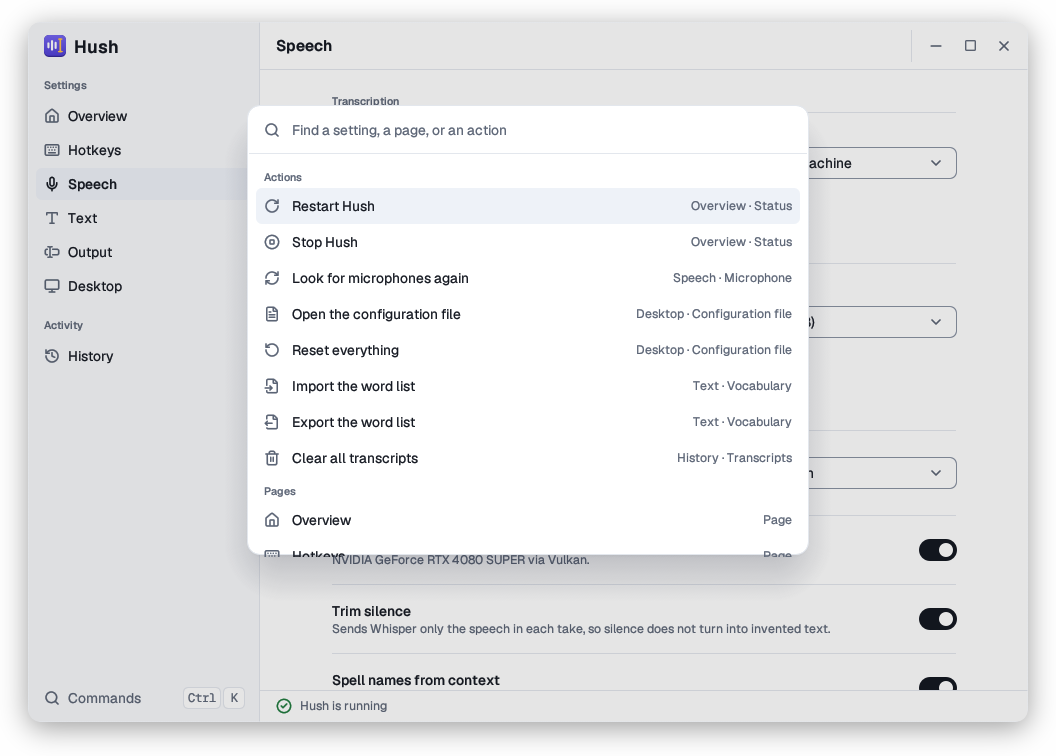
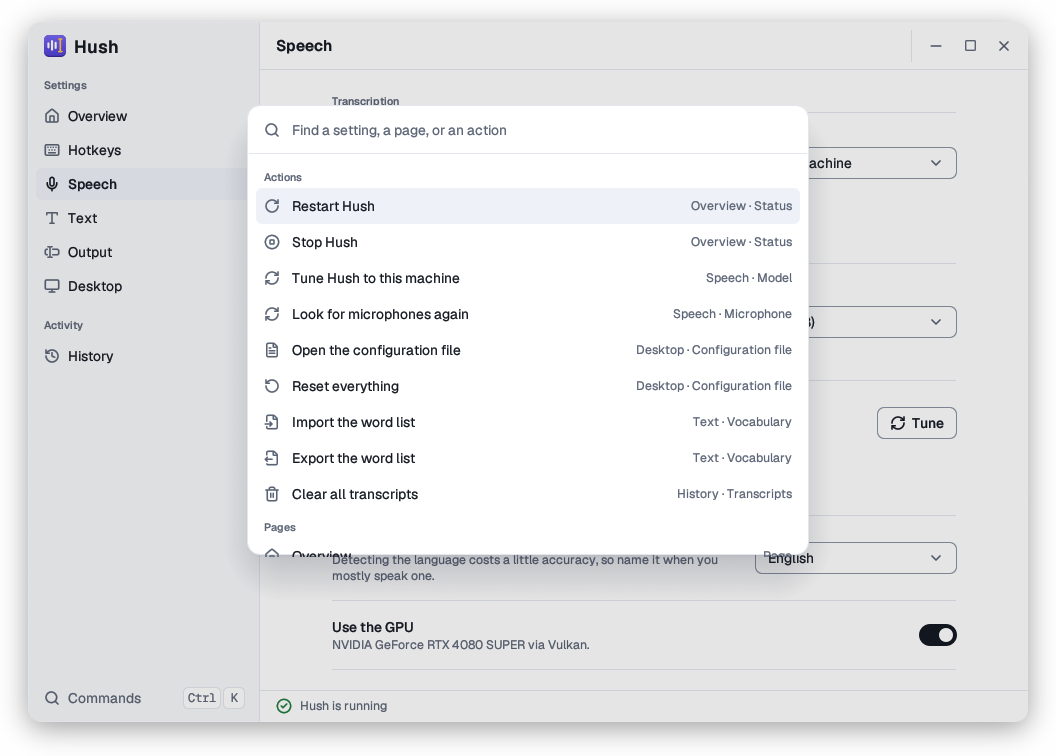
feat(gui): show the last hardware tune on the Speech page, with a button that runs it again
The Speech page gains a tune row under the model: the runs and the pick of the last `hush tune`, or
what a tune does, with a Tune button that runs `hush tune`. The command palette offers the same
action. TuneResult::current() reads a tune only when it timed the GPU and driver in use, and each
refresh of the window takes its pick as the recommended model. At start, a new GPU or driver
under an older tune notifies the user to tune again. The screenshot script keeps the state and
cache folders inside its own home, so a tune on the host stays out of the pictures.

diff --git a/src/gui/palette.rs b/src/gui/palette.rs
@@ -266,7 +266,15 @@ pub const SETTINGS: &[Setting] = &[
         "Speech model",
         Page::Speech,
         "Model",
-        "whisper tiny base small medium large parakeet size accuracy",
+        "whisper tiny base small medium large turbo parakeet size accuracy",
+    )
+    .when(model_list),
+    row(
+        "speech.tune",
+        "Hardware tune",
+        Page::Speech,
+        "Model",
+        "tune benchmark speed gpu cpu recommend time measure",
     )
     .when(model_list),
     row(
@@ -587,6 +595,7 @@ pub enum Action {
     StopHush,
     GrantAccess,
     Download,
+    Tune,
     FindMicrophones,
     KeepMicAwake,
     LetMicSleep,
@@ -601,12 +610,13 @@ pub enum Action {
 }
 
 impl Action {
-    pub const ALL: [Action; 16] = [
+    pub const ALL: [Action; 17] = [
         Action::StartHush,
         Action::RestartHush,
         Action::StopHush,
         Action::GrantAccess,
         Action::Download,
+        Action::Tune,
         Action::FindMicrophones,
         Action::KeepMicAwake,
         Action::LetMicSleep,
@@ -629,6 +639,7 @@ impl Action {
             },
             Action::GrantAccess => ("overview.access", Some(Page::Overview)),
             Action::Download => ("speech.download", Some(Page::Speech)),
+            Action::Tune => ("speech.tune", Some(Page::Speech)),
             Action::FindMicrophones => ("speech.microphone", Some(Page::Speech)),
             Action::KeepMicAwake | Action::LetMicSleep => ("speech.wake", Some(Page::Speech)),
             Action::OpenConfigFile => ("desktop.config_file", Some(Page::Desktop)),
@@ -648,7 +659,7 @@ impl Action {
         match self {
             Action::StartHush | Action::RestartHush | Action::StopHush => "Status",
             Action::GrantAccess => "Keyboard access",
-            Action::Download => "Model",
+            Action::Download | Action::Tune => "Model",
             Action::FindMicrophones | Action::KeepMicAwake | Action::LetMicSleep => "Microphone",
             Action::OpenConfigFile | Action::Reset => "Configuration file",
             Action::ImportWords | Action::ExportWords => "Vocabulary",
@@ -665,7 +676,7 @@ impl Action {
             Action::StopHush => icons::CIRCLE_STOP,
             Action::GrantAccess => icons::SHIELD_CHECK,
             Action::Download => icons::DOWNLOAD,
-            Action::FindMicrophones => icons::REFRESH_CW,
+            Action::FindMicrophones | Action::Tune => icons::REFRESH_CW,
             Action::KeepMicAwake => icons::MIC,
             Action::OpenConfigFile => icons::FILE_TEXT,
             Action::ImportWords => icons::FILE_INPUT,
@@ -686,6 +697,7 @@ impl Action {
             Action::StopHush => "daemon quit off",
             Action::GrantAccess => "permissions udev uinput input group keyboard",
             Action::Download => "model whisper fetch install voice detection vad",
+            Action::Tune => "tune benchmark speed gpu cpu recommend model time measure",
             Action::FindMicrophones => "refresh microphones input devices rescan",
             Action::KeepMicAwake => {
                 "wake sleep suspend wireplumber pipewire first word cut off slow"
@@ -716,6 +728,8 @@ impl Action {
                     _ => "Download voice detection".to_string(),
                 }
             },
+            Action::Tune if gui.machine.tune.is_some() => "Tune again",
+            Action::Tune => "Tune Hush to this machine",
             Action::FindMicrophones => "Look for microphones again",
             Action::KeepMicAwake => "Keep the microphone awake",
             Action::LetMicSleep => "Let the microphone sleep again",
@@ -738,6 +752,7 @@ impl Action {
             Action::RestartHush | Action::StopHush => gui.machine.running(),
             Action::GrantAccess => !gui.machine.permissions.ready(),
             Action::Download => speech::download_offer(gui).is_some(),
+            Action::Tune => model_list(gui),
             Action::FindMicrophones | Action::OpenConfigFile | Action::Reset => true,
             Action::KeepMicAwake => speech::wake_offer(gui) == Some(speech::WakeAction::Keep),
             Action::LetMicSleep => speech::wake_offer(gui) == Some(speech::WakeAction::Release),
@@ -786,6 +801,10 @@ impl Action {
                     speech::start_download(gui, size);
                     self.show_row(gui, ctx);
                 }
+            },
+            Action::Tune => {
+                speech::start_tune(gui);
+                self.show_row(gui, ctx);
             },
             Action::FindMicrophones => {
                 gui.microphones = meter::input_devices();

diff --git a/src/gui/pages/speech.rs b/src/gui/pages/speech.rs
@@ -48,6 +48,7 @@ pub fn show(gui: &mut Gui, ui: &mut egui::Ui) {
     backend(gui, ui);
     if !gui.config.transcription.backend.is_cloud() {
         models(gui, ui);
+        tune(gui, ui);
     }
     listening(gui, ui);
     microphone(gui, ui);
@@ -915,6 +916,69 @@ pub fn start_download(gui: &mut Gui, size: ModelSize) {
 }
 
 /// The name this model has in `transcription.model_size`.
+/// The last hardware tune, and a button that runs it again.
+fn tune(gui: &mut Gui, ui: &mut egui::Ui) {
+    let (title, text) = tune_summary(gui.machine.tune.as_ref());
+    let label = if gui.machine.tune.is_some() {
+        "Tune again"
+    } else {
+        "Tune"
+    };
+    let mut clicked = false;
+    row("speech.tune", title)
+        .describe(&text)
+        .reserve(140.0)
+        .show(ui, |ui| {
+            clicked = ui.add(Button::new(label).icon(icons::REFRESH_CW)).clicked();
+        });
+    if clicked {
+        start_tune(gui);
+    }
+}
+
+pub fn start_tune(gui: &mut Gui) {
+    gui.run_hush(&["tune"], "Timing the models on this machine…");
+}
+
+/// The title and the line of the tune row: the last result, or what a
+/// tune does.
+fn tune_summary(tune: Option<&crate::transcription::tune::TuneResult>) -> (&'static str, String) {
+    use crate::transcription::tune::DeviceKind;
+    let Some(tune) = tune else {
+        return (
+            "Hardware tune",
+            "Times base on this machine's GPU and CPU, and recommends the most accurate model \
+             that keeps up."
+                .to_string(),
+        );
+    };
+    let device = |kind: DeviceKind| match kind {
+        DeviceKind::Gpu => "the GPU",
+        DeviceKind::Cpu => "the CPU",
+    };
+    let runs: Vec<String> = tune
+        .measured
+        .iter()
+        .map(|run| {
+            format!(
+                "{} ran {:.0}x real time on {}",
+                run.model,
+                run.speed,
+                device(run.device)
+            )
+        })
+        .collect();
+    (
+        "Last hardware tune",
+        format!(
+            "{}. It recommends {} on {}.",
+            runs.join(", "),
+            size_key(tune.pick.model),
+            device(tune.pick.device)
+        ),
+    )
+}
+
 pub fn size_key(size: ModelSize) -> &'static str {
     match size {
         ModelSize::Tiny => "tiny",
@@ -1177,5 +1241,35 @@ mod tests {
                 "{code} passes validation"
             );
         }
+    }
+
+    #[test]
+    fn the_tune_row_names_the_runs_and_the_pick() {
+        use crate::transcription::tune::{DeviceKind, Measured, Pick, Preference, TuneResult};
+        let (title, text) = tune_summary(None);
+        assert_eq!(title, "Hardware tune");
+        assert!(text.starts_with("Times base"));
+        let tune = TuneResult {
+            gpu: None,
+            preference: Preference::Balanced,
+            measured: vec![Measured {
+                device: DeviceKind::Gpu,
+                model: ModelSize::Base,
+                speed: 276.8,
+                memory_total: None,
+                word_error_rate: None,
+            }],
+            pick: Pick {
+                model: ModelSize::LargeV3,
+                device: DeviceKind::Gpu,
+                speed: 42.6,
+            },
+        };
+        let (title, text) = tune_summary(Some(&tune));
+        assert_eq!(title, "Last hardware tune");
+        assert_eq!(
+            text,
+            "base ran 277x real time on the GPU. It recommends large-v3 on the GPU."
+        );
     }
 }

diff --git a/src/transcription/gpu_notice.rs b/src/transcription/gpu_notice.rs
@@ -9,7 +9,7 @@ use crate::config::paths;
 use crate::notify::{notify, NoticeKind};
 use serde::{Deserialize, Serialize};
 use std::path::{Path, PathBuf};
-use tracing::{debug, warn};
+use tracing::{debug, info, warn};
 
 const PROC_NVIDIA_VERSION: &str = "/proc/driver/nvidia/version";
 
@@ -40,8 +40,8 @@ pub fn compare(before: Option<&Option<GpuFingerprint>>, now: Option<&GpuFingerpr
 }
 
 /// The GPU at this start, kept for the next start. Notifies when the GPU of
-/// the last start is gone, or when a Flatpak lacks the GL extension of the
-/// host's NVIDIA driver.
+/// the last start is gone, when a Flatpak lacks the GL extension of the
+/// host's NVIDIA driver, or when a new GPU or driver outdates the tune.
 pub fn check_at_start(gpu: &GpuAvailability) {
     if !GPU_BUILD {
         return;
@@ -54,13 +54,21 @@ pub fn check_at_start(gpu: &GpuAvailability) {
         debug!("Could not keep the GPU for the next start: {:#}", e);
     }
     let missing = missing_flatpak_gl();
+    let tuned_elsewhere = super::tune::TuneResult::load_from(&super::tune::TuneResult::path())
+        .is_some_and(|tune| !tune.holds_for(now.as_ref()));
     let notice = match (&change, now.is_none()) {
         (Change::Gone(before), _) => Some(gone_notice(Some(before), missing.as_deref())),
         (Change::First, true) if missing.is_some() => Some(gone_notice(None, missing.as_deref())),
+        (Change::New(gpu), _) if tuned_elsewhere => Some(retune_notice(gpu)),
         _ => None,
     };
     if let Some((title, body)) = notice {
-        warn!("{}: {}", title, body.replace('\n', " "));
+        let line = body.replace('\n', " ");
+        if matches!(change, Change::New(_)) {
+            info!("{}: {}", title, line);
+        } else {
+            warn!("{}: {}", title, line);
+        }
         notify(NoticeKind::Problem, title, &body);
     }
 }
@@ -90,6 +98,17 @@ pub fn gone_notice(
         },
     };
     (title, body)
+}
+
+/// The notice for a GPU or driver that the last tune did not time.
+pub fn retune_notice(gpu: &GpuFingerprint) -> (&'static str, String) {
+    (
+        "The hardware tune is out of date",
+        format!(
+            "Hush now runs on {} with {}. Run `hush tune` to pick the model for it again.",
+            gpu.gpu, gpu.driver
+        ),
+    )
 }
 
 /// In a Flatpak on a host with an NVIDIA driver: the GL extension that the
@@ -187,6 +206,17 @@ mod tests {
             Some("org.freedesktop.Platform.GL.nvidia-620-73-04")
         );
         assert_eq!(missing_extension("620.70.06", &mounted), None);
+    }
+
+    #[test]
+    fn a_new_driver_asks_for_a_new_tune() {
+        let (title, body) = retune_notice(&rtx("NVIDIA 620.73.04"));
+        assert_eq!(title, "The hardware tune is out of date");
+        assert_eq!(
+            body,
+            "Hush now runs on NVIDIA GeForce RTX 4080 SUPER with NVIDIA 620.73.04. Run `hush tune` \
+             to pick the model for it again."
+        );
     }
 
     #[test]

diff --git a/src/gui/mod.rs b/src/gui/mod.rs
@@ -106,6 +106,8 @@ pub struct Machine {
     pub autostart: bool,
     /// The daemon waits to keep the next take for the tune
     pub keep_next: bool,
+    /// The last `hush tune`, when it timed this GPU and driver
+    pub tune: Option<crate::transcription::tune::TuneResult>,
     /// A compositor that runs no autostart entries and must start Hush
     /// from its own config
     pub startup_compositor: Option<crate::service::Compositor>,
@@ -141,6 +143,7 @@ impl Machine {
             },
             probe,
             keep_next: reply.as_ref().is_some_and(|reply| reply.keep_next),
+            tune: crate::transcription::tune::TuneResult::current(),
             safe_mode: reply.and_then(|reply| reply.safe_mode),
             start_delay,
             config_loads: Config::load().is_ok(),
@@ -941,6 +944,9 @@ impl Gui {
             return;
         };
         self.machine = machine;
+        if let Some(tune) = &self.machine.tune {
+            self.recommended = tune.pick.model;
+        }
         self.follow_file_and_safe_mode();
         if self.debounce.pending() {
             match self.machine.probe {
@@ -1318,6 +1324,7 @@ mod tests {
             vad_installed: true,
             autostart: false,
             keep_next: false,
+            tune: None,
             startup_compositor: None,
             cloud_keys: Vec::new(),
         }

diff --git a/src/transcription/models.rs b/src/transcription/models.rs
@@ -238,19 +238,11 @@ impl<'de> serde::Deserialize<'de> for ModelSize {
 /// and a small machine should not swap while transcribing.
 pub fn recommended_model() -> ModelSize {
     static RECOMMENDED: OnceLock<ModelSize> = OnceLock::new();
-    *RECOMMENDED.get_or_init(|| {
-        let gpu = crate::transcription::device::GpuAvailability::detect();
-        let fingerprint = gpu
-            .available
-            .then(|| crate::transcription::gpu_fallback::GpuFingerprint::current(gpu));
-        let tuned = crate::transcription::tune::TuneResult::load_from(
-            &crate::transcription::tune::TuneResult::path(),
-        )
-        .filter(|result| result.holds_for(fingerprint.as_ref()));
-        match tuned {
-            Some(result) => result.pick.model,
-            None => recommended_model_for(gpu.available),
-        }
+    *RECOMMENDED.get_or_init(|| match crate::transcription::tune::TuneResult::current() {
+        Some(result) => result.pick.model,
+        None => {
+            recommended_model_for(crate::transcription::device::GpuAvailability::detect().available)
+        },
     })
 }
 

diff --git a/src/transcription/tune.rs b/src/transcription/tune.rs
@@ -223,6 +223,13 @@ impl TuneResult {
     pub fn holds_for(&self, gpu: Option<&GpuFingerprint>) -> bool {
         self.gpu.as_ref() == gpu
     }
+
+    /// The saved tune, when it timed the GPU and driver that Hush uses now.
+    pub fn current() -> Option<Self> {
+        let gpu = crate::transcription::device::GpuAvailability::detect();
+        let fingerprint = gpu.available.then(|| GpuFingerprint::current(gpu));
+        Self::load_from(&Self::path()).filter(|result| result.holds_for(fingerprint.as_ref()))
+    }
 }
 
 #[cfg(test)]

diff --git a/docs/models.md b/docs/models.md
@@ -12,7 +12,9 @@
 
 Larger models are more accurate and slower. `large-v3-turbo` is large-v3 with a smaller decoder: it is close to large-v3 in accuracy and much faster, and Hush downloads its 8-bit file. Manage models with `hush models list`, `hush models download <size>`, and `hush models set <size>`. Hush downloads the Whisper models from the whisper.cpp catalogue and checks each download against a SHA-256 checksum.
 
-`hush tune` times base on your GPU and your CPU, each in a process of its own. It recommends the most accurate model whose text comes within about one second after a 10-second recording. It times on the take that the setup kept, else on a public-domain clip, and it frees the daemon's model meanwhile. The speeds of the larger models are estimates until `hush tune --apply` times the pick. Without a tune, the Speech page names medium for a GPU with 16 GB of RAM or more, and small for less. On a CPU, it names base with 16 GB or more, and tiny with less.
+`hush tune` times base on your GPU and your CPU, each in a process of its own. It recommends the most accurate model whose text comes within about one second after a 10-second recording. It times on the take that the setup kept, else on a public-domain clip, and it frees the daemon's model meanwhile. The speeds of the larger models are estimates until `hush tune --apply` times the pick. The Tune button on the Speech page runs `hush tune` and shows its result.
+
+Without a tune, the Speech page names medium for a GPU with 16 GB of RAM or more, and small for less. On a CPU, it names base with 16 GB or more, and tiny with less. A tune applies to one GPU and driver, and Hush tells you at start to tune again when they change.
 
 `parakeet-v3` is NVIDIA's Parakeet TDT 0.6B v3, an opt-in model for 25 European languages. The languages are Bulgarian, Croatian, Czech, Danish, Dutch, English, Estonian, Finnish, French, German, Greek, and Hungarian. They also include Italian, Latvian, Lithuanian, Maltese, Polish, Portuguese, Romanian, Russian, Slovak, Slovenian, Spanish, Swedish, and Ukrainian. Turn it on with `hush models set parakeet-v3`. It tells these languages apart on its own, so `transcription.language` and `detect_languages` do not apply to it. `hush doctor` warns when `language` names a language it lacks.
 
